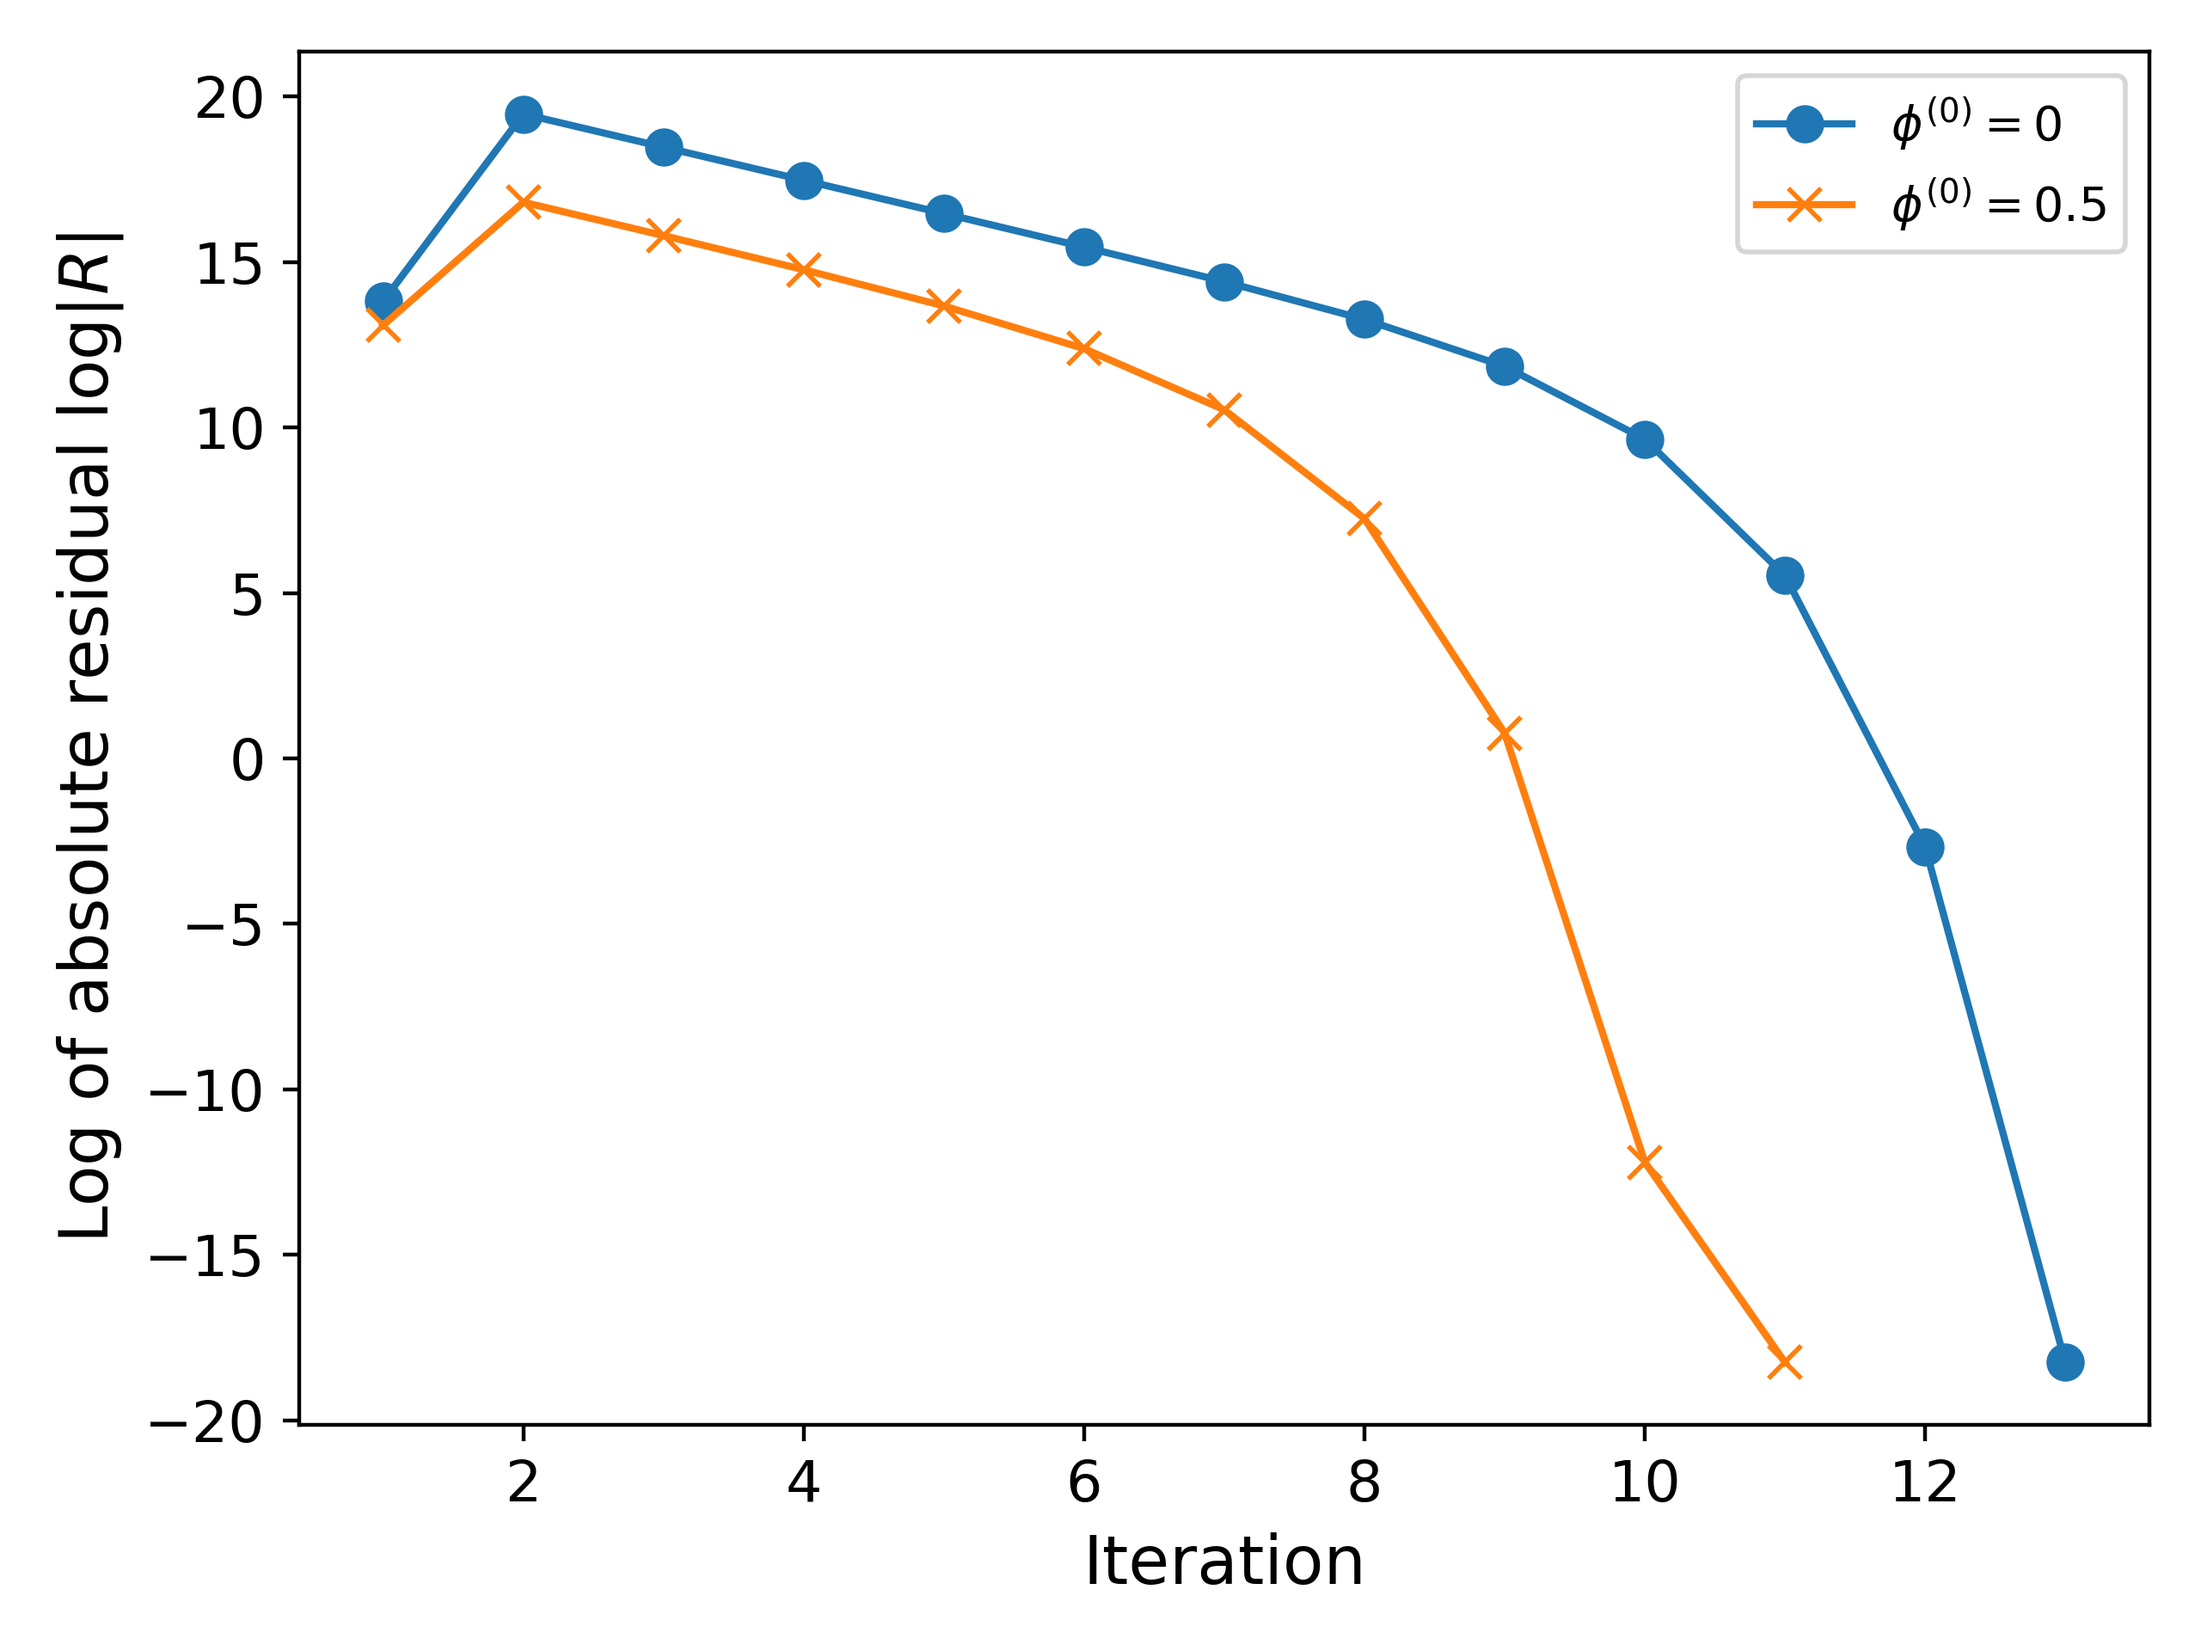
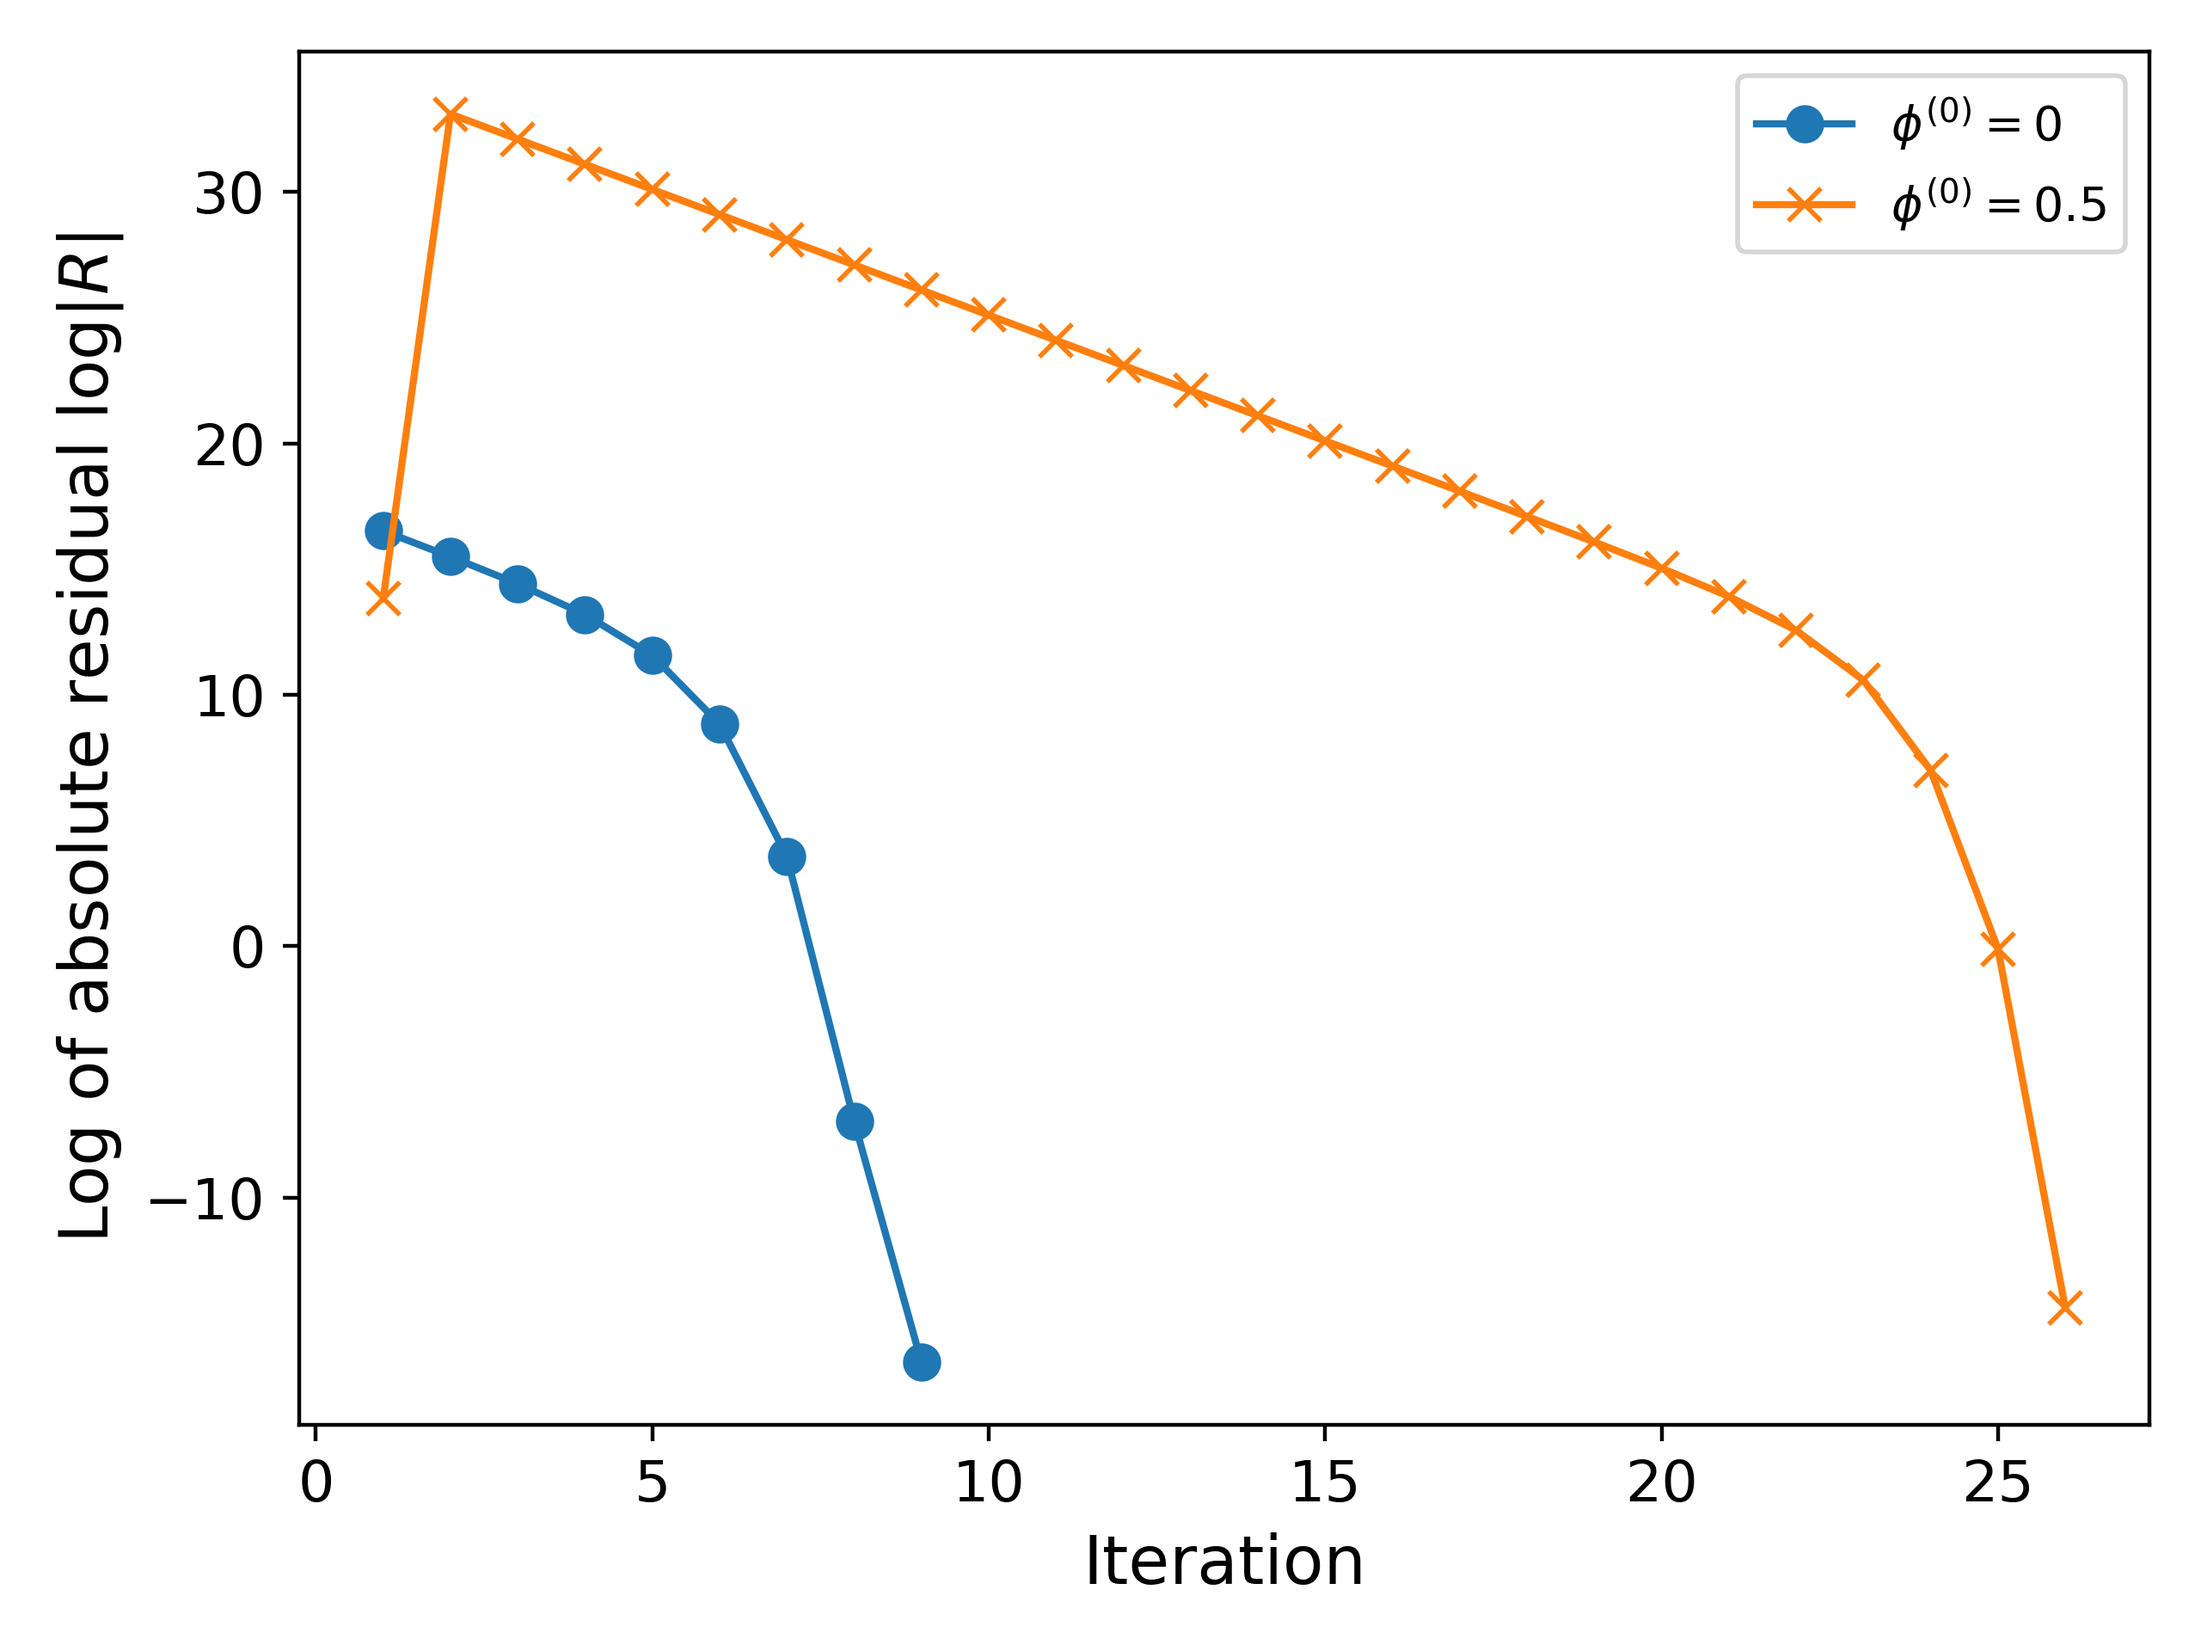
WIP: fixed plots for Newtons method

diff --git a/_talks/newtons_method.md b/_talks/newtons_method.md
@@ -94,7 +94,6 @@ It can be observed that increasing the value of $c$ increases the number of iter
 **Note.** *Equations like \ref{eq:example_BV} are encountered as boundary conditions after spatially discretizing the governing equations using, for example, the finite element or finite volume method. Presently, we do not discuss any numerical discretizations, but will revisit that in a future blog post!*
 
 We now consider $\alpha_a = 0.85$ in \ref{eq:BV}; see Fig. 3 below for a plot of the current density.
- and then solve \ref{eq:example_BV}. The residuals are shown in Fig. 3 below.
 
 <div align="center">
 <img src='/images/Newtons_method_images/BV_alpha85.png' width='380' height='380'>
@@ -108,7 +107,7 @@ We now consider $\alpha_a = 0.85$ in \ref{eq:BV}; see Fig. 3 below for a plot of
 <br>
 
 
-We now return to solving \ref{eq:example_BV} using $c = 10^6$. In this case, the number of iterations taken by the solver increases to $25$. The reported solution is $\phi_* = 0.6549109190$ and $j_* = 3.450890810218518 \times 10^5$. The convergence can be improved by choosing a different initial guess. For example, for $\phi^{(0)} = 0.5$, the number of iterations taken drops to $6$ and the reported solution remains unchanged; see Fig. 4 for a comparison of the residuals.
+We now return to solving \ref{eq:example_BV} using $c = 10^6$. In this case, the number of iterations taken by the solver increases to $26$. The reported solution is $\phi_* = 0.4018586997$ and $j_* = 5.981413003436504 \times 10^5$. The convergence can be improved by choosing a different initial guess. For example, for $\phi^{(0)} = 0.5$, the number of iterations taken drops to $9$ and the reported solution is $\phi_* = 0.4018586997$ and $j_* = 5.981413003430553 \times 10^5$; see Fig. 4 for a comparison of the residuals.
 
 <div align="center">
 <img src='/images/Newtons_method_images/alpha_res_degenerate.png' width='450' height='450'>
